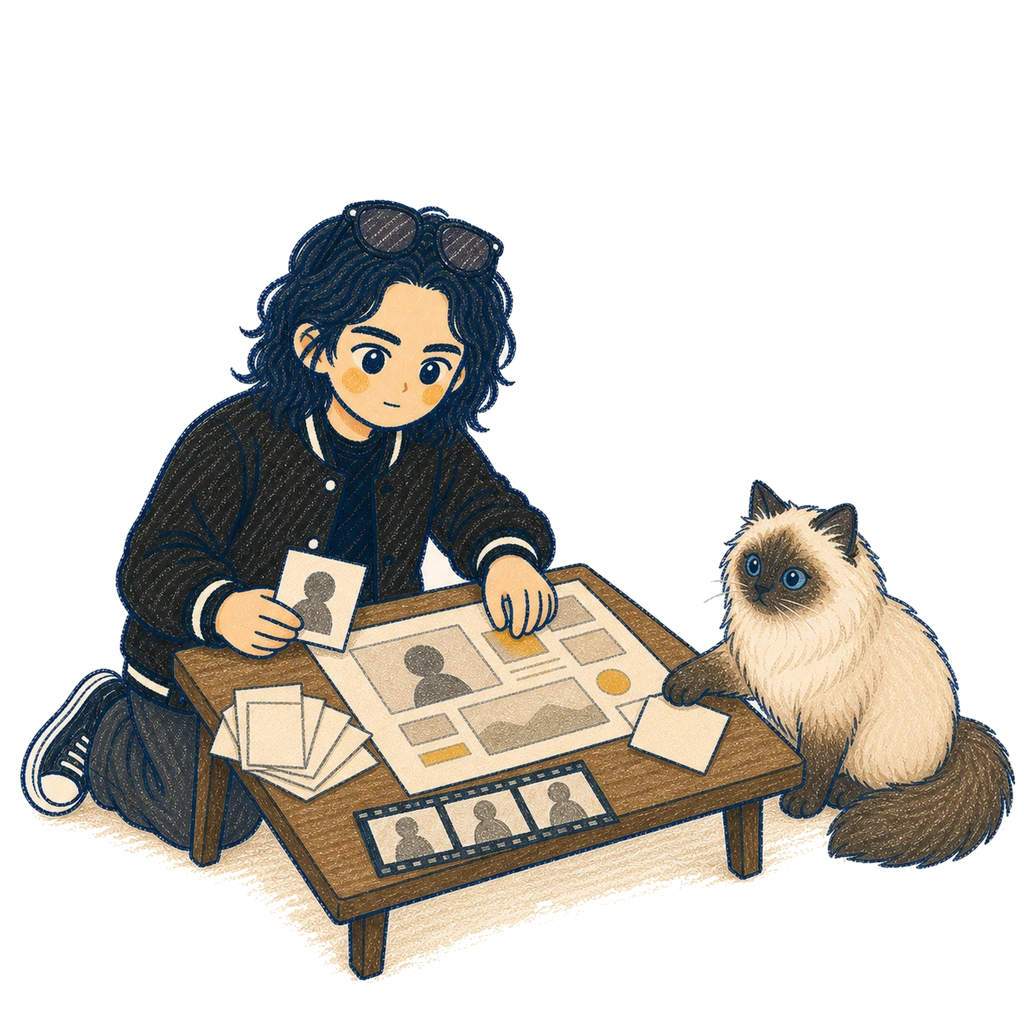
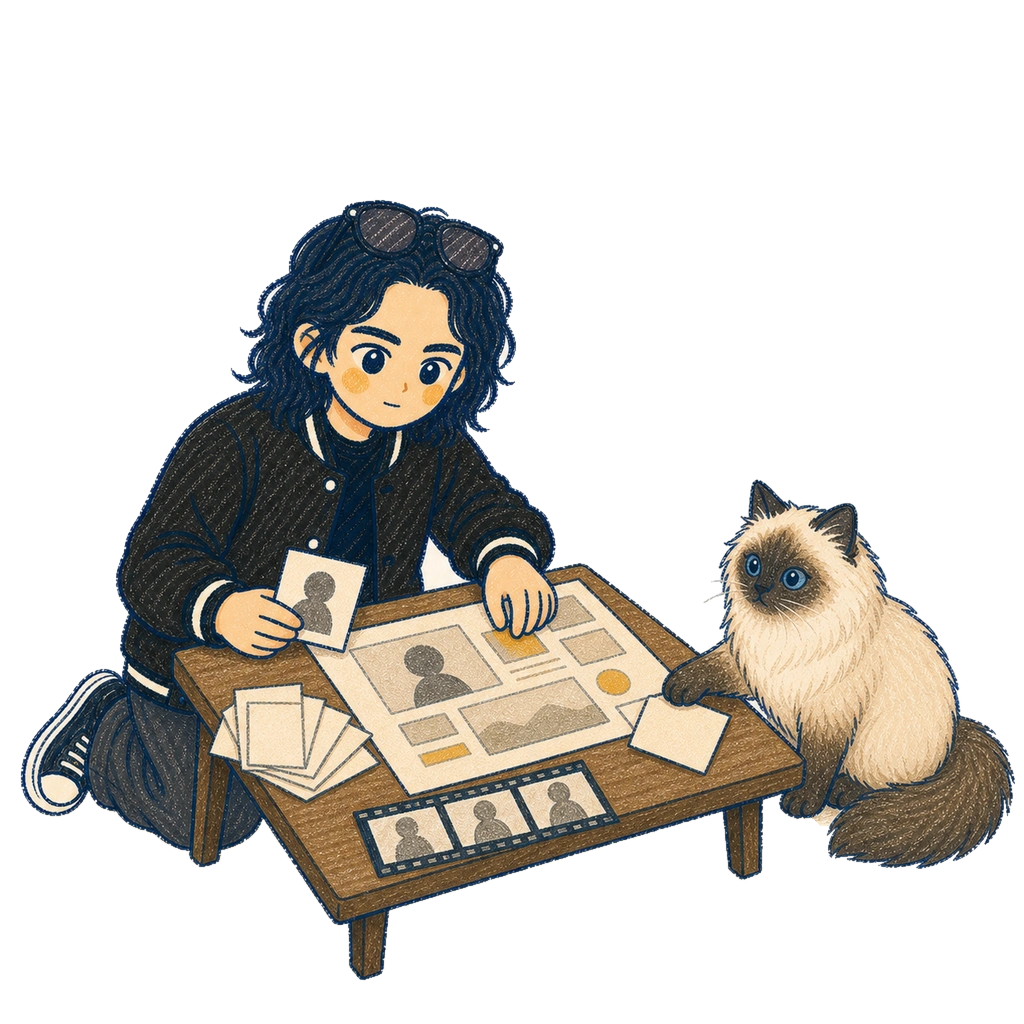
fix: clean personal story skill cutout

diff --git a/scripts/make-skill-cutouts.py b/scripts/make-skill-cutouts.py
@@ -10,7 +10,7 @@ from collections import deque
 from pathlib import Path
 from statistics import median
 
-from PIL import Image, ImageFilter
+from PIL import Image, ImageDraw, ImageFilter
 
 
 ROOT = Path(__file__).resolve().parents[1]
@@ -19,8 +19,28 @@ ASSETS = (
     ("mz-icon-design.webp", "mz-icon-design-cutout.webp", 22),
     ("mz-crayon-illustrations.webp", "mz-crayon-illustrations-cutout.webp", 22),
     ("mz-minimal-zine.webp", "mz-minimal-zine-cutout.webp", 75),
-    ("build-personal-story-site.webp", "build-personal-story-site-cutout.webp", 22),
+    ("build-personal-story-site.webp", "build-personal-story-site-cutout.webp", 155),
 )
+
+PROTECTED_POLYGONS = {
+    "build-personal-story-site.webp": (
+        (
+            22,
+            (
+                (715, 465),
+                (855, 475),
+                (930, 535),
+                (975, 650),
+                (965, 785),
+                (910, 835),
+                (820, 825),
+                (755, 765),
+                (700, 665),
+                (690, 550),
+            ),
+        ),
+    ),
+}
 
 EDGE_FEATHER_RADIUS = 0.65
 
@@ -97,6 +117,15 @@ def create_cutout(source: Path, output: Path, tolerance: int) -> None:
 
     key = sample_border_key(image)
     alpha = connected_background_mask(image, key, tolerance)
+
+    # This cover needs a strong threshold to remove the warm crayon floor,
+    # while the cat's pale exterior fur needs the original conservative mask.
+    for protected_tolerance, points in PROTECTED_POLYGONS.get(source.name, ()):
+        protected_alpha = connected_background_mask(image, key, protected_tolerance)
+        protected_region = Image.new("L", image.size, 0)
+        ImageDraw.Draw(protected_region).polygon(points, fill=255)
+        alpha = Image.composite(protected_alpha, alpha, protected_region)
+
     image.putalpha(alpha)
     image.save(output, "WEBP", lossless=True, quality=100, method=6, exact=True)
 
